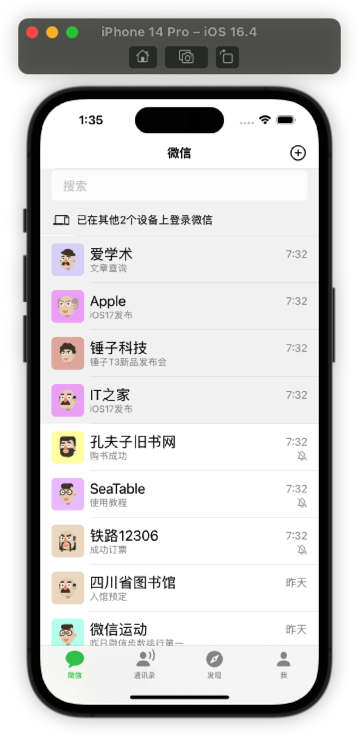
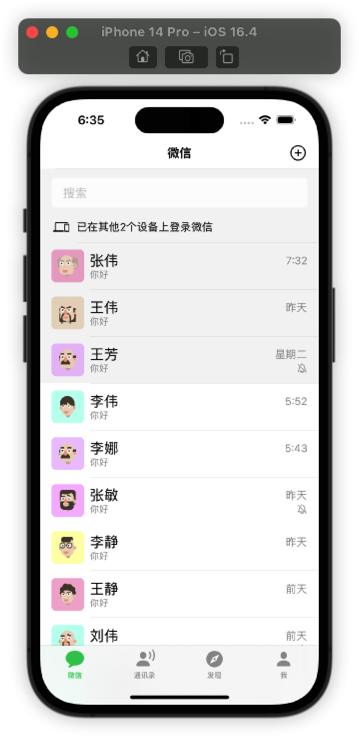
为避免广告，替换演示数据

diff --git a/wechat/data/Data.swift b/wechat/data/Data.swift
@@ -11,23 +11,44 @@ import Foundation
 
 class Db: ObservableObject{
     @Published var recentMessages: [RecentMessage] = [
-        RecentMessage(title:"爱学术",pinyin:"AIXUESHU",recentMessage:"文章查询",date: "7:32", cover:"bus.doubledecker", onTop: true),
-        RecentMessage(title:"Apple",pinyin:"APPLE",recentMessage:"iOS17发布",date: "7:32", cover:"bus.doubledecker", onTop: true),
-        RecentMessage(title:"锤子科技",pinyin:"CHUIZIKEJI",recentMessage:"锤子T3新品发布会",date: "7:32", cover:"train.side.front.car", onTop: true),
-        RecentMessage(title:"IT之家",pinyin:"ITZHIJIA",recentMessage:"iOS17发布",date: "7:32", cover:"bus.doubledecker", onTop: true),
-        RecentMessage(title:"孔夫子旧书网",pinyin:"KONGFUZHIJIUSHUWANG",recentMessage:"购书成功",date: "7:32", cover:"train.side.front.car", mutex: true),
-        RecentMessage(title:"SeaTable",pinyin:"SEATABLE",recentMessage:"使用教程",date: "7:32", cover:"bus.doubledecker", mutex: true),
-        RecentMessage(title:"铁路12306",pinyin:"TIELU12306",recentMessage:"成功订票",date: "7:32", cover:"train.side.front.car", mutex: true),
-        RecentMessage(title:"四川省图书馆",pinyin:"SICHUANSHENGTUSHUGUAN",recentMessage:"入馆预定",date: "昨天", cover:"bus.doubledecker"),
-        RecentMessage(title:"微信运动",pinyin:"WEIXINYUNDONG",recentMessage:"昨日微信步数排行第一",date: "昨天", cover:"train.side.front.car"),
-        RecentMessage(title:"微信支付",pinyin:"WEIXINZHIFU",recentMessage:"",date: "前天", cover:"bus.doubledecker"),
-        RecentMessage(title:"中国移动",pinyin:"ZHONGGUOYIDONG",recentMessage:"当前余额:欠费0.01",date: "前天", cover:"train.side.front.car"),
-        RecentMessage(title:"实时公交",pinyin:"SHISHIGONGJIAO",recentMessage:"公交线路查询",date: "前天", cover:"bus.doubledecker"),
-        RecentMessage(title:"重庆移动",pinyin:"CHOGNQIYIDONG",recentMessage:"当前余额:欠费0.01",date: "星期一", cover:"train.side.front.car"),
-        RecentMessage(title:"中国联通",pinyin:"ZHONGGUOLIANTONG",recentMessage:"当前套餐:哔哩哔哩22卡",date: "星期一", cover:"bus.doubledecker"),
-        RecentMessage(title:"中国石化",pinyin:"ZHONGGUOSHIHUA",recentMessage:"",date: "3-21", cover:"train.side.front.car"),
-        RecentMessage(title:"腾讯企业邮箱",pinyin:"TENGXUNQIYEYOUXIANG",recentMessage:"[新邮件]提醒",date: "3-20", cover:"bus.doubledecker"),
-        RecentMessage(title:"腾讯视频",pinyin:"TENGXUNSHIP",recentMessage:"会员过期",date: "1-23", cover:"train.side.front.car"),
+//        刘一 陈二 张三 李四 王五 赵六 孙七 周八 吴九 郑十 张伟、王伟、王芳、李伟、李娜、张敏、李静、王静、刘伟和王秀英
+        RecentMessage(title:"张伟",pinyin:"ZHANGWEI",recentMessage:"你好",date: "7:32", cover:"bus.doubledecker", onTop: true),
+        RecentMessage(title:"王伟",pinyin:"WANGWEI",recentMessage:"你好",date: "昨天", cover:"bus.doubledecker", onTop: true),
+        RecentMessage(title:"王芳",pinyin:"WANGFANG",recentMessage:"你好",date: "星期二", cover:"bus.doubledecker", onTop: true, mutex: true),
+        RecentMessage(title:"李伟",pinyin:"LIWEI",recentMessage:"你好",date: "5:52", cover:"bus.doubledecker"),
+        RecentMessage(title:"李娜",pinyin:"LINA",recentMessage:"你好",date: "5:43", cover:"bus.doubledecker"),
+        RecentMessage(title:"张敏",pinyin:"ZHANGMIN",recentMessage:"你好",date: "昨天", cover:"bus.doubledecker", mutex: true),
+        RecentMessage(title:"李静",pinyin:"LIJING",recentMessage:"你好",date: "昨天", cover:"bus.doubledecker"),
+        RecentMessage(title:"王静",pinyin:"WANGJING",recentMessage:"你好",date: "前天", cover:"bus.doubledecker"),
+        RecentMessage(title:"刘伟",pinyin:"LIWEI",recentMessage:"你好",date: "前天", cover:"bus.doubledecker", mutex: true),
+        RecentMessage(title:"王秀英",pinyin:"WANGXIUYING",recentMessage:"你好",date: "前天", cover:"bus.doubledecker", mutex: true),
+        RecentMessage(title:"刘一",pinyin:"LIUYI",recentMessage:"你好",date: "星期一", cover:"bus.doubledecker"),
+        RecentMessage(title:"陈二",pinyin:"CHENER",recentMessage:"你好",date: "星期一", cover:"bus.doubledecker"),
+        RecentMessage(title:"张三",pinyin:"ZHANGSAN",recentMessage:"你好",date: "1-23", cover:"bus.doubledecker"),
+        RecentMessage(title:"李四",pinyin:"LISI",recentMessage:"你好",date: "1-13", cover:"bus.doubledecker"),
+        RecentMessage(title:"王五",pinyin:"WANGWU",recentMessage:"你好",date: "2022-12-03", cover:"bus.doubledecker"),
+        RecentMessage(title:"赵六",pinyin:"ZHAOLIU",recentMessage:"你好",date: "2022-12-03", cover:"bus.doubledecker"),
+        RecentMessage(title:"孙七",pinyin:"SHUNQI",recentMessage:"你好",date: "2022-12-03", cover:"bus.doubledecker"),
+        RecentMessage(title:"周八",pinyin:"ZHOUBA",recentMessage:"你好",date: "2022-12-03", cover:"bus.doubledecker"),
+        RecentMessage(title:"吴九",pinyin:"WUJIU",recentMessage:"你好",date: "2022-12-03", cover:"bus.doubledecker"),
+        RecentMessage(title:"郑十",pinyin:"ZHENGSHI",recentMessage:"你好",date: "2022-12-03", cover:"bus.doubledecker"),
+//        RecentMessage(title:"爱学术",pinyin:"AIXUESHU",recentMessage:"文章查询",date: "7:32", cover:"bus.doubledecker"),
+//        RecentMessage(title:"Apple",pinyin:"APPLE",recentMessage:"iOS17发布",date: "7:32", cover:"bus.doubledecker"),
+//        RecentMessage(title:"锤子科技",pinyin:"CHUIZIKEJI",recentMessage:"锤子T3新品发布会",date: "7:32", cover:"train.side.front.car"),
+//        RecentMessage(title:"IT之家",pinyin:"ITZHIJIA",recentMessage:"iOS17发布",date: "7:32", cover:"bus.doubledecker"),
+//        RecentMessage(title:"孔夫子旧书网",pinyin:"KONGFUZHIJIUSHUWANG",recentMessage:"购书成功",date: "7:32", cover:"train.side.front.car", mutex: true),
+//        RecentMessage(title:"SeaTable",pinyin:"SEATABLE",recentMessage:"使用教程",date: "7:32", cover:"bus.doubledecker", mutex: true),
+//        RecentMessage(title:"铁路12306",pinyin:"TIELU12306",recentMessage:"成功订票",date: "7:32", cover:"train.side.front.car", mutex: true),
+//        RecentMessage(title:"四川省图书馆",pinyin:"SICHUANSHENGTUSHUGUAN",recentMessage:"入馆预定",date: "昨天", cover:"bus.doubledecker"),
+//        RecentMessage(title:"微信运动",pinyin:"WEIXINYUNDONG",recentMessage:"昨日微信步数排行第一",date: "昨天", cover:"train.side.front.car"),
+//        RecentMessage(title:"微信支付",pinyin:"WEIXINZHIFU",recentMessage:"",date: "前天", cover:"bus.doubledecker"),
+//        RecentMessage(title:"中国移动",pinyin:"ZHONGGUOYIDONG",recentMessage:"当前余额:欠费0.01",date: "前天", cover:"train.side.front.car"),
+//        RecentMessage(title:"实时公交",pinyin:"SHISHIGONGJIAO",recentMessage:"公交线路查询",date: "前天", cover:"bus.doubledecker"),
+//        RecentMessage(title:"重庆移动",pinyin:"CHOGNQIYIDONG",recentMessage:"当前余额:欠费0.01",date: "星期一", cover:"train.side.front.car"),
+//        RecentMessage(title:"中国联通",pinyin:"ZHONGGUOLIANTONG",recentMessage:"当前套餐:哔哩哔哩22卡",date: "星期一", cover:"bus.doubledecker"),
+//        RecentMessage(title:"中国石化",pinyin:"ZHONGGUOSHIHUA",recentMessage:"",date: "3-21", cover:"train.side.front.car"),
+//        RecentMessage(title:"腾讯企业邮箱",pinyin:"TENGXUNQIYEYOUXIANG",recentMessage:"[新邮件]提醒",date: "3-20", cover:"bus.doubledecker"),
+//        RecentMessage(title:"腾讯视频",pinyin:"TENGXUNSHIP",recentMessage:"会员过期",date: "1-23", cover:"train.side.front.car"),
     ]
 
 }

diff --git a/wechat/contacts/ContactsView.swift b/wechat/contacts/ContactsView.swift
@@ -15,7 +15,9 @@ struct ContactsView: View {
     let letters = Array("ABCDEFGHIJKLMNOPQRSTUVWXYZ")
     
     func groupedBy(charater: Character) -> [RecentMessage]{
-        return db.recentMessages.filter{$0.pinyin.hasPrefix(charater.uppercased())}
+        return db.recentMessages
+            .filter{$0.pinyin.hasPrefix(charater.uppercased())}
+            .sorted { $0.pinyin < $1.pinyin }
     }
     
     func hasContactsGroup(charater: Character) -> Bool{
@@ -31,13 +33,13 @@ struct ContactsView: View {
         List{
             HStack{
                 TextField("搜索",text: $searchText)
+                    .padding(.vertical, 10)
+                    .padding(.horizontal)
                     .focused($isSearchFoucsed)
-                    .padding(10)
                     .background{
                         Color.gray.opacity(0.1)
                     }
                     .cornerRadius(6)
-                    .padding(.horizontal)
                     .animation(.easeInOut, value: isSearchFoucsed)
                 if isSearchFoucsed{
                     Button {
@@ -49,6 +51,9 @@ struct ContactsView: View {
 
                 }
             }
+            .padding(.horizontal)
+            .listRowInsets(EdgeInsets())
+            
             VStack{
                 ContactsCategoryView(avatarName: "person.fill.badge.plus", color: Color(hex: "ED9541"), title: "新的朋友")
                 ContactsCategoryView(avatarName: "message.and.waveform.fill", color: Color(hex: "ED9541"), title: "仅聊天的朋友")

diff --git a/wechat/recent/OnlineDevicesView.swift b/wechat/recent/OnlineDevicesView.swift
@@ -83,22 +83,6 @@ struct OnlineDevicesView: View {
     }
 }
 
-struct OnlineDeviceStatusView: View{
-    @Binding var isOnlineShow: Bool
-    var body: some View{
-        ZStack {
-            HStack{
-                Image(systemName: "macbook.and.iphone")
-                Text("已在其他2个设备上登录微信")
-                    .font(.subheadline)
-                Spacer()
-            }
-            .onTapGesture(perform: {
-                isOnlineShow = true
-            })
-        }
-    }
-}
 
 struct OnlineDeviceAction: View{
     var icon: String
@@ -145,7 +129,7 @@ struct OnlineDeviceView<ContentView:View>: View{
                     }
                     Spacer()
                     Button {
-                        withAnimation {
+                        withAnimation(.easeInOut) {
                             if current != nil && current! == title{
                                 current = nil
                             }else{

diff --git a/wechat/recent/RecentView.swift b/wechat/recent/RecentView.swift
@@ -37,10 +37,12 @@ struct RecentView: View {
 
                         }
                     }
+                    .padding(.top, 10)
                     OnlineDeviceStatusView(isOnlineShow: $isOnlineShow)
                         .padding(.vertical, 10)
                 }
             }
+            .listRowInsets(EdgeInsets())
             .padding(.horizontal)
             .padding(.vertical, 3)
             .background {
@@ -56,7 +58,7 @@ struct RecentView: View {
                             Color.gray.opacity(0.1)
                         }
                     })
-                    .swipeActions(edge: .trailing) {
+                    .swipeActions(edge: .trailing, allowsFullSwipe: false) {
                         Button(role: .destructive) {
                         } label: {
                             Label("删除", systemImage: "")

diff --git a/wechat/recent/OnlineDeviceStatusView.swift b/wechat/recent/OnlineDeviceStatusView.swift
@@ -1,0 +1,32 @@
+//
+//  OnlineDeviceStatusView.swift
+//  wechat
+//
+//  Created by 唐毓俊 on 2023/4/1.
+//
+
+import SwiftUI
+
+
+struct OnlineDeviceStatusView: View{
+    @Binding var isOnlineShow: Bool
+    var body: some View{
+        ZStack {
+            HStack{
+                Image(systemName: "macbook.and.iphone")
+                Text("已在其他2个设备上登录微信")
+                    .font(.subheadline)
+                Spacer()
+            }
+            .onTapGesture(perform: {
+                isOnlineShow = true
+            })
+        }
+    }
+}
+
+struct OnlineDeviceStatusView_Previews: PreviewProvider {
+    static var previews: some View {
+        OnlineDeviceStatusView(isOnlineShow: .constant(false))
+    }
+}
